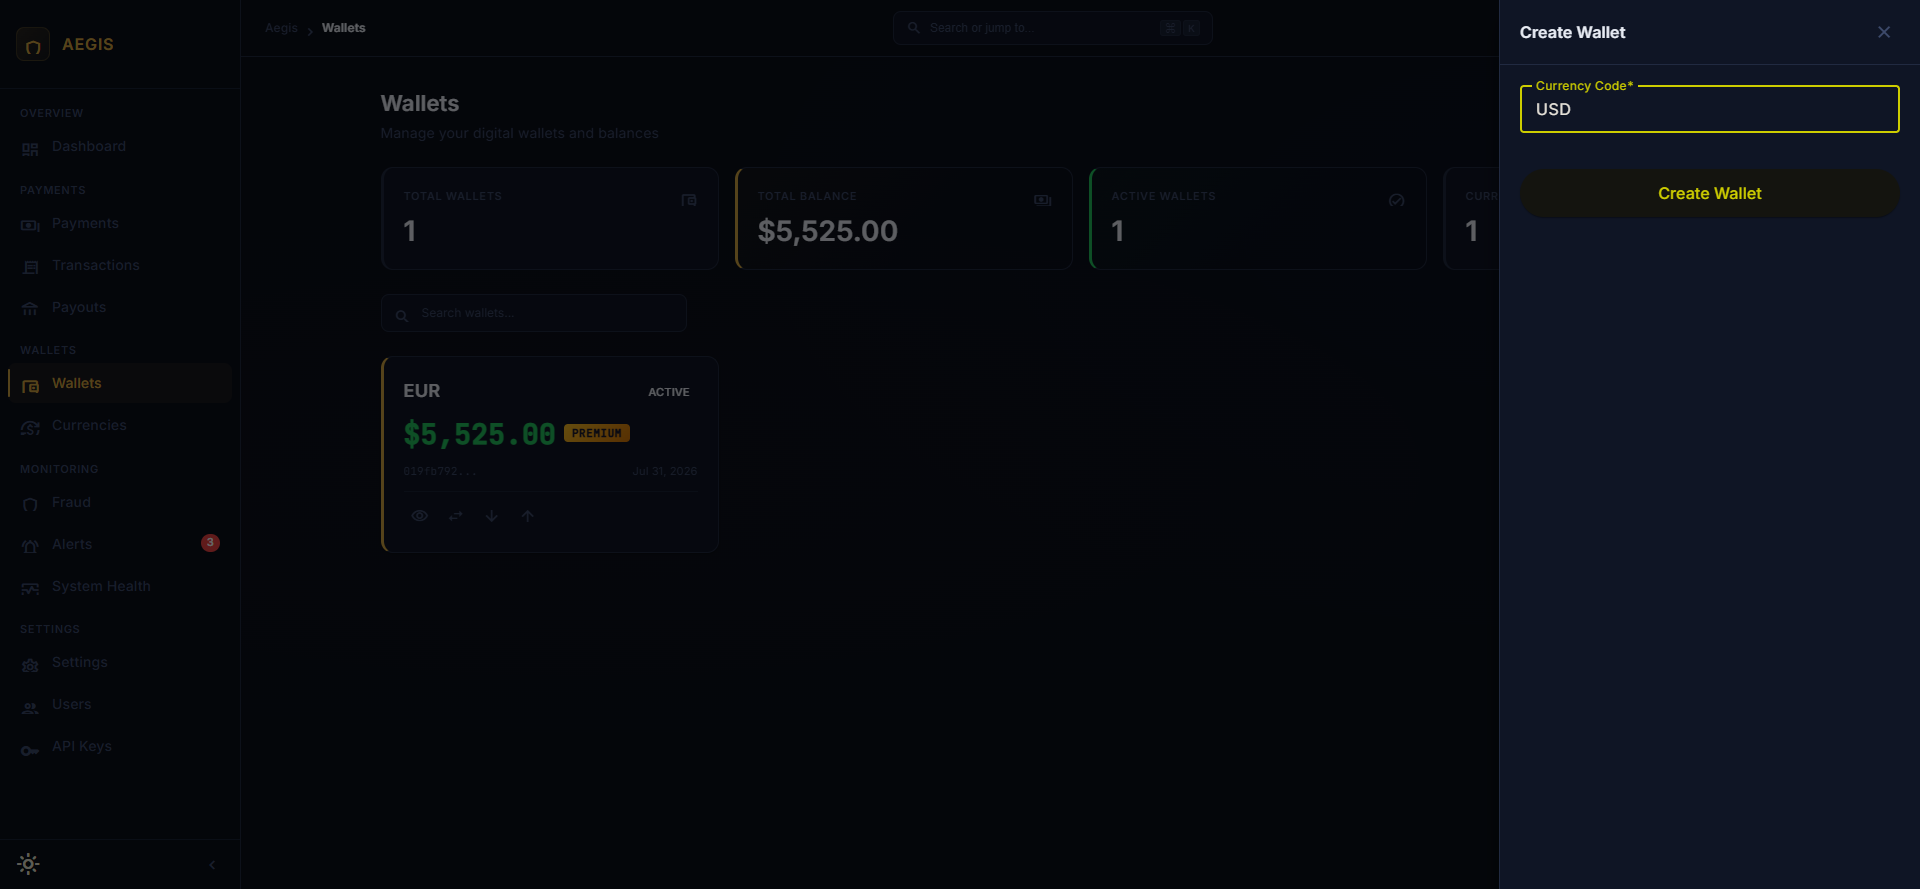
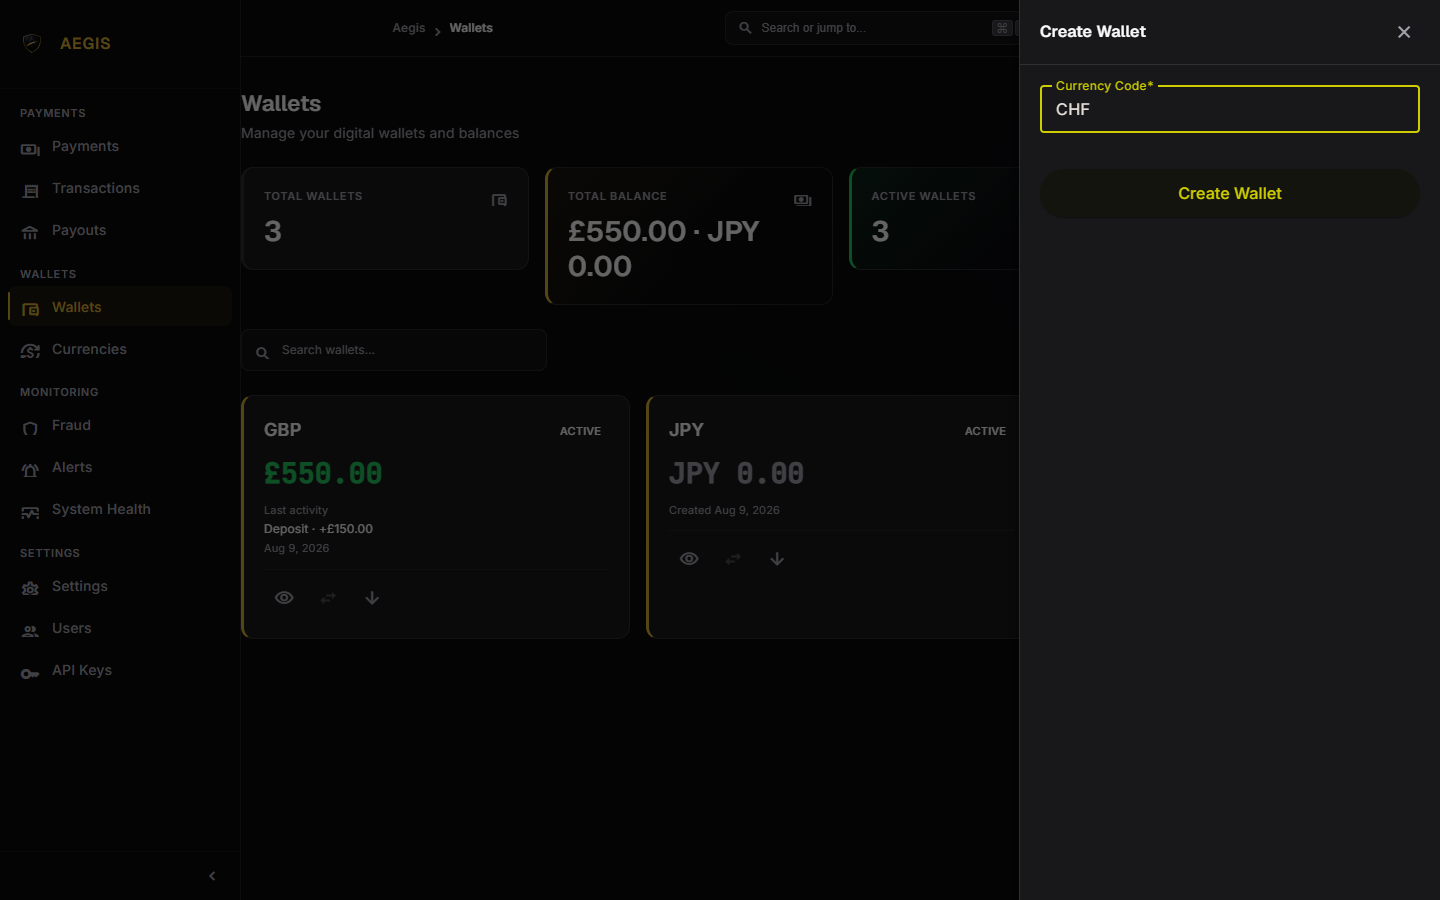
feat(frontend): refresh evidence with new UI captures (#12)
* feat(frontend): refresh evidence with new UI captures

* fix(frontend): align hero services counter with registry

diff --git a/src/data/evidence.ts b/src/data/evidence.ts
@@ -21,42 +21,43 @@ export const evidenceGroups: EvidenceGroup[] = [
         src: 'evidence/app/01-login-filled.png',
         title: 'Sign in',
         caption:
-          'Identity service — credentials verified against BCrypt-hashed passwords, session secured with JWT + HttpOnly cookies.',
+          'Identity service — credentials verified against BCrypt-hashed passwords, session secured with JWT + HttpOnly cookies. Branded zinc/gold dark UI with the real Aegis logo.',
       },
       {
-        src: 'evidence/app/02-wallets-premium.png',
+        src: 'evidence/app/02-wallets.png',
         title: 'Wallet list',
         caption:
-          'User wallets rendered by the Angular SPA, served by the Wallet service REST API.',
+          'Wallet list with KPI cards and business info (no raw IDs) rendered by the Angular SPA, served by the Wallet service REST API.',
       },
       {
-        src: 'evidence/app/03-wallet-detail-deposit-section.png',
+        src: 'evidence/app/03-wallet-detail.png',
         title: 'Wallet detail',
         caption:
-          'Account view with balance and the deposit action surfaced from the ledger aggregate.',
+          'Dedicated wallet page — back navigation, currency/status header, balance overview and action tabs over the ledger aggregate.',
       },
       {
-        src: 'evidence/app/04-deposit-form-filled.png',
-        title: 'Deposit form',
+        src: 'evidence/app/04-deposit-modal.png',
+        title: 'Deposit modal',
         caption:
-          'Deposit form — amount, currency, source and a unique client reference for idempotency.',
+          'Deposit dialog — amount, source and a unique client reference for idempotency, with the deposit action on the balance overview.',
       },
       {
-        src: 'evidence/app/05-deposit-receipt.png',
-        title: 'Deposit receipt',
+        src: 'evidence/app/05-deposit-success-toast.png',
+        title: 'Deposit confirmed',
         caption:
-          'Confirmed deposit — the ledger is updated atomically and a domain event is written to the outbox.',
+          'Confirmed deposit — the ledger is updated atomically, a domain event is written to the outbox and the success toast surfaces it.',
       },
       {
         src: 'evidence/app/06-dup-reference-rejected.png',
         title: 'Duplicate reference rejected',
         caption:
-          'Reusing a deposit reference is rejected — idempotency is enforced in the domain, not the UI.',
+          'Reusing a deposit reference is rejected — idempotency is enforced in the domain, not the UI, and surfaced as an error toast.',
       },
       {
         src: 'evidence/app/07-create-wallet-form.png',
         title: 'Create wallet',
-        caption: 'Wallet creation form — currency selection in a hexagonal, contract-first API.',
+        caption:
+          'Slide-over wallet creation panel — currency selection in a hexagonal, contract-first API.',
       },
       {
         src: 'evidence/app/08-two-wallets.png',
@@ -84,6 +85,50 @@ export const evidenceGroups: EvidenceGroup[] = [
         src: 'evidence/app/12-kafka-fraud-topic.png',
         title: 'fraud topic',
         caption: 'Fraud-related events routed for real-time scoring and rules evaluation.',
+      },
+    ],
+  },
+  {
+    id: 'toast',
+    label: 'Toast notification system',
+    note: 'Bottom-right toasts — compact, hierarchical, stackable.',
+    items: [
+      {
+        src: 'evidence/toast/01-toast-creation.png',
+        title: 'Wallet created',
+        caption:
+          'JPY wallet created successfully — user-facing message with no technical IDs.',
+      },
+      {
+        src: 'evidence/toast/02-toast-deposit.png',
+        title: 'Deposit completed',
+        caption:
+          'Deposit toast with amount, source and a View transaction action for drill-down.',
+      },
+      {
+        src: 'evidence/toast/03-toast-error.png',
+        title: 'Error toast',
+        caption:
+          'Unable to complete deposit — duplicate reference surfaced in context with a clear error.',
+      },
+      {
+        src: 'evidence/toast/04-toast-stack.png',
+        title: 'Toast stacking',
+        caption:
+          'Vertical stacking keeps message hierarchy readable when multiple events land together.',
+      },
+    ],
+  },
+  {
+    id: 'uuid',
+    label: 'Technical details',
+    note: 'Raw IDs kept out of the primary UI.',
+    items: [
+      {
+        src: 'evidence/uuid/technical-details-dialog.png',
+        title: 'Technical details dialog',
+        caption:
+          'UUIDs only under More actions > Technical details, with copy support — clean, user-facing wallet screens.',
       },
     ],
   },
